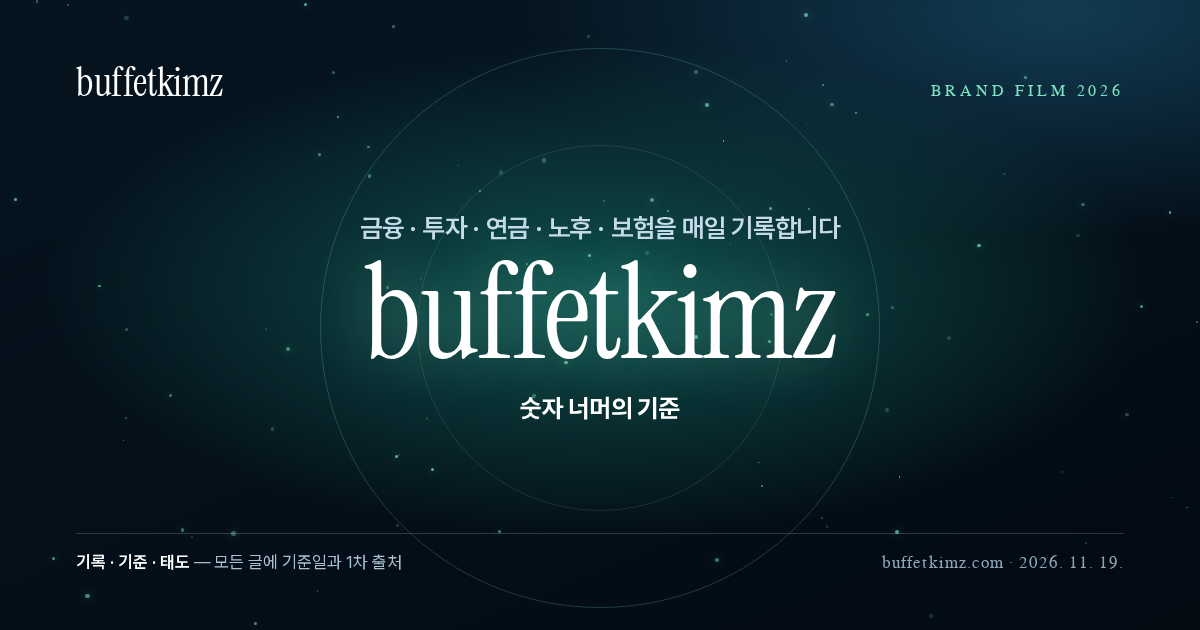
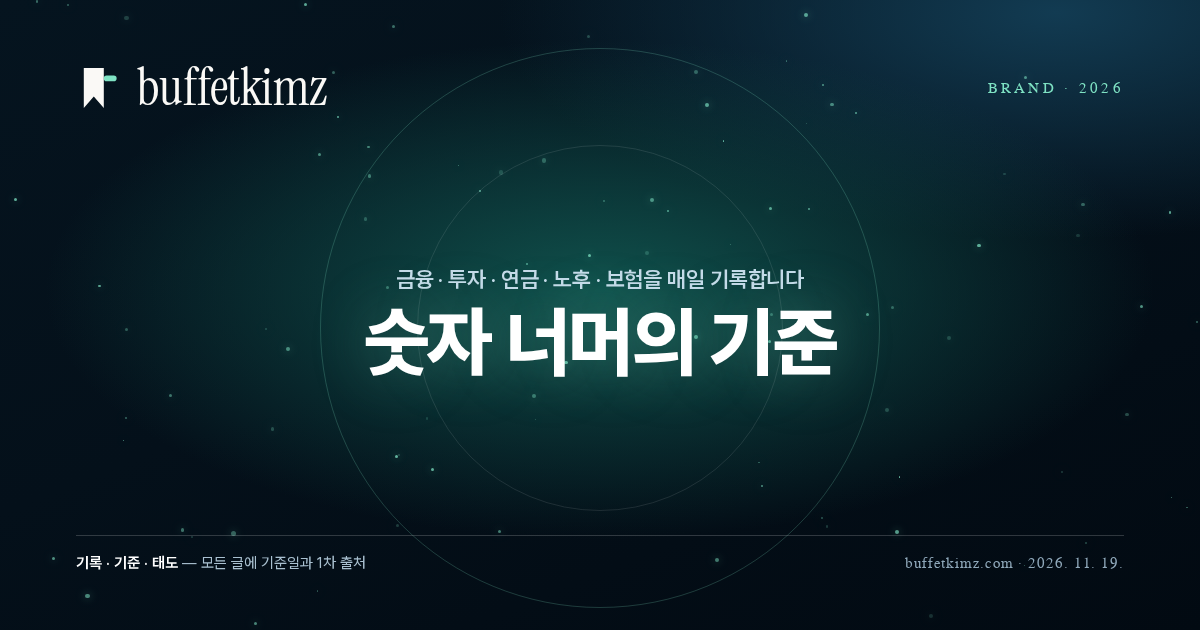
v5.5 대표 로고 시안 A(서표·인덱스 탭) 정식 반영 — 헤더·푸터 락업, 파비콘 16/32/180, 다크 민트 컷, OG 카드
- 헤더: 심볼 28px + 워드마크 30.8px(1:0.55) 인라인 SVG 락업, 모바일 22/24.2px, aria-label·focus-visible 링
- 푸터: 같은 락업 22px로 통일
- 1P 필름: 씬5·정적 록업·HUD에 다크 컷(#faf9f6 + 민트 #7fe3c4), 44~104px로 줄여 제목과 균형
- 파비콘: favicon.svg(32 컷, prefers-color-scheme 대응)·favicon-16.svg(16px 힌팅 컷)·크림 불투명 16/32 PNG·apple-touch-icon 180
- OG: 시안 A 락업의 아카이브형 카드로 재생성(1200×630)
- 검증: 1280/1200/390 렌더 캡처, 콘솔 오류 0·4xx 0, 넘침 0

diff --git a/src/styles/global.css b/src/styles/global.css
@@ -160,6 +160,84 @@
     }
   }
 
+  /* ==================================================================
+     v5.5 브랜드 록업 — 시안 A '서표 · 인덱스 탭' (2026-11-21 확정)
+     워드마크 글자 크기를 --lockup-size로 받고 심볼·간격이 거기에 비례한다.
+     심볼 = 0.909 × 글자 크기 → 헤더 28px : 30.8px (시안 A 1:0.55 균형 비율).
+     ================================================================== */
+  .brand-lockup {
+    --lockup-size: 1em;
+    display: inline-flex;
+    align-items: center;
+    gap: calc(var(--lockup-size) * 0.26);
+    color: var(--color-ink);
+    text-decoration: none;
+  }
+
+  .brand-lockup__symbol {
+    flex: none;
+    display: block;
+    width: calc(var(--lockup-size) * 0.909);
+    height: calc(var(--lockup-size) * 0.909);
+  }
+
+  /* 먹 = 잉크 네이비(currentColor) · 포인트 1색 = 딥그린 */
+  .brand-lockup__ink {
+    fill: currentColor;
+  }
+
+  .brand-lockup__tab {
+    fill: var(--color-brand);
+  }
+
+  .brand-lockup__word {
+    font-size: var(--lockup-size);
+    line-height: 1;
+    letter-spacing: -0.01em;
+    color: currentColor;
+  }
+
+  /* 다크 바탕 — 종이색 심볼 + 민트 탭(명도 보정 짝, 동일 녹색 계열) */
+  .brand-lockup.is-dark {
+    color: #faf9f6;
+  }
+
+  .brand-lockup.is-dark .brand-lockup__tab {
+    fill: #7fe3c4;
+  }
+
+  /* 로고 링크 — 키보드 포커스에만 링을 두고, 다크에서는 민트로 바꾼다 */
+  .brand-lockup-link:focus-visible {
+    outline: 2px solid var(--color-brand);
+    outline-offset: 3px;
+    border-radius: 10px;
+  }
+
+  .brand-lockup-link:focus:not(:focus-visible) {
+    outline: none;
+  }
+
+  .brand-lockup-link.is-dark:focus-visible,
+  .is-dark .brand-lockup-link:focus-visible {
+    outline-color: #7fe3c4;
+  }
+
+  /* 헤더 — 데스크톱 30.8px · 모바일 24.2px (적용 가이드: 심볼 28px / 22px) */
+  .brand-lockup--header {
+    --lockup-size: 30.8px;
+  }
+
+  @media (max-width: 767px) {
+    .brand-lockup--header {
+      --lockup-size: 24.2px;
+    }
+  }
+
+  /* 푸터 — 22px(심볼 20px) */
+  .brand-lockup--footer {
+    --lockup-size: 22px;
+  }
+
   .site-quick {
     border-top: 1px solid var(--color-line-soft);
   }
@@ -2195,9 +2273,11 @@
   }
 
   .fs5-mark {
-    margin-top: 4px;
+    margin-top: 12px;
     font-family: var(--font-serif);
-    font-size: clamp(58px, 10.4vw, 142px);
+    /* 시안 A 심볼이 함께 서므로 워드마크만 있던 때(최대 142px)보다 한 단계 줄여
+       제목을 누르지 않고 한 덩어리로 읽히게 한다(심볼은 0.909배로 따라온다). */
+    font-size: clamp(44px, 7.6vw, 104px);
     line-height: 1;
     letter-spacing: -0.02em;
     color: #ffffff;
@@ -2965,5 +3045,33 @@
     opacity: 1;
     transform: none;
     clip-path: none;
+  }
+}
+
+/* ==================================================================
+   v2 발행 파이프라인 — 390px 본문 규격 (부이 대리 기준)
+   본문 16~17px · line-height 1.7 내외 · 표는 좌우로 밀려 넘치지 않고 표 안에서 스크롤
+   ================================================================== */
+@media (max-width: 767px) {
+  .prose-article {
+    font-size: 16.5px;
+    line-height: 1.72;
+  }
+
+  .prose-article table {
+    max-width: 100%;
+    font-size: 13.5px;
+    line-height: 1.6;
+    -webkit-overflow-scrolling: touch;
+    overscroll-behavior-x: contain;
+  }
+
+  .prose-article th,
+  .prose-article td {
+    padding: 8px 10px;
+  }
+
+  .prose-article blockquote {
+    font-size: 15.5px;
   }
 }

diff --git a/scripts/og.html b/scripts/og.html
@@ -29,7 +29,7 @@
         justify-content: space-between;
         word-break: keep-all;
       }
-      /* 빛 입자 — 다만 장식. 텍스트 워드마크만 쓴다(붓글씨 로고 없음) */
+      /* 빛 입자 — 장식. 로고는 시안 A(서표·인덱스 탭) 락업만 쓴다 */
       .dust { position: absolute; inset: 0; pointer-events: none; }
       .dust i {
         position: absolute;
@@ -57,42 +57,38 @@
         border-radius: 999px;
         border: 1px solid rgba(255, 255, 255, 0.1);
       }
-      .top { display: flex; align-items: baseline; justify-content: space-between; position: relative; }
+      .top { display: flex; align-items: center; justify-content: space-between; position: relative; }
+      /* 브랜드 록업 — 심볼 = 워드마크의 0.909배(28 : 30.8 비율 유지) */
+      .lockup { display: inline-flex; align-items: center; gap: 13px; color: #faf9f6; }
+      .lockup svg { width: 48px; height: 48px; display: block; }
       .wordmark {
         font-family: "Instrument Serif", Georgia, serif;
-        font-size: 40px;
+        font-size: 52px;
         line-height: 1;
         letter-spacing: -0.01em;
-        color: #ffffff;
+        color: #faf9f6;
       }
       .kicker {
         font-family: ui-monospace, "SF Mono", Menlo, monospace;
-        font-size: 16px;
-        letter-spacing: 0.24em;
+        font-size: 15px;
+        letter-spacing: 0.22em;
         color: #7fe3c4;
       }
       .mid { position: relative; text-align: center; }
       .line1 {
-        font-size: 26px;
+        font-size: 22px;
         font-weight: 600;
-        letter-spacing: -0.01em;
+        letter-spacing: -0.005em;
         color: #c6dbe9;
       }
-      .mark {
-        margin-top: 6px;
-        font-family: "Instrument Serif", Georgia, serif;
-        font-size: 132px;
-        line-height: 0.98;
-        letter-spacing: -0.02em;
-        color: #ffffff;
-        text-shadow: 0 0 60px rgba(127, 227, 196, 0.45);
-      }
       .thesis {
-        margin-top: 14px;
-        font-size: 25px;
-        font-weight: 700;
-        letter-spacing: -0.03em;
+        margin-top: 10px;
+        font-size: 76px;
+        font-weight: 800;
+        line-height: 1.06;
+        letter-spacing: -0.035em;
         color: #ffffff;
+        text-shadow: 0 0 60px rgba(127, 227, 196, 0.35);
       }
       .bottom {
         position: relative;
@@ -101,7 +97,7 @@
         align-items: center;
         border-top: 1px solid rgba(255, 255, 255, 0.18);
         padding-top: 18px;
-        font-size: 17px;
+        font-size: 15px;
         color: #a9c0d0;
       }
       .bottom .mono {
@@ -117,13 +113,18 @@
     <div class="rings"></div>
 
     <div class="top">
-      <span class="wordmark">buffetkimz</span>
-      <span class="kicker">BRAND FILM 2026</span>
+      <span class="lockup">
+        <svg viewBox="0 0 24 24" aria-hidden="true">
+          <path d="M3.9 2H13.9V22L8.9 16.2 3.9 22Z" fill="#faf9f6" />
+          <rect x="13.9" y="5.8" width="6.4" height="2.8" rx="1.4" fill="#7fe3c4" />
+        </svg>
+        <span class="wordmark">buffetkimz</span>
+      </span>
+      <span class="kicker">BRAND · 2026</span>
     </div>
 
     <div class="mid">
       <p class="line1">금융 · 투자 · 연금 · 노후 · 보험을 매일 기록합니다</p>
-      <p class="mark">buffetkimz</p>
       <p class="thesis">숫자 너머의 기준</p>
     </div>
 

diff --git a/src/components/home/BrandFilm.tsx b/src/components/home/BrandFilm.tsx
@@ -13,6 +13,7 @@
  * 필름 구역에는 요약 설명을 붙이고 H1은 정적 록업이 갖는다(자바스크립트 없이도 읽힌다).
  */
 import { useEffect, useRef, useState } from "react";
+import BrandMark from "@/components/BrandMark.tsx";
 
 const TOTAL = 12;
 const SCENES = [
@@ -443,7 +444,7 @@ export default function BrandFilm({ appsHref = "/apps" }: { appsHref?: string })
                 숫자 너머의 기준
               </p>
               <p className="fs5-mark" data-fs5-mark>
-                buffetkimz
+                <BrandMark tone="dark" />
               </p>
               <p className="fs5-sub" data-fs5-sub>
                 금융 · 투자 · 연금 · 노후 · 보험을 매일 기록합니다
@@ -489,7 +490,9 @@ export default function BrandFilm({ appsHref = "/apps" }: { appsHref?: string })
           <p className="film-static-title">
             숫자 너머의 기준,
             <br />
-            <span className="film-static-mark">buffetkimz</span>
+            <span className="film-static-mark">
+              <BrandMark tone="dark" />
+            </span>
           </p>
           <p className="film-static-sub">숫자를 확인하고, 기록으로 남깁니다</p>
           <p className="film-mono film-static-fields">금융 · 투자 · 연금 · 노후 · 보험</p>
@@ -507,7 +510,7 @@ export default function BrandFilm({ appsHref = "/apps" }: { appsHref?: string })
         <div className="film-hud">
           <div className="film-hud-left">
             <p className="film-hud-brand">
-              <span className="serif">buffetkimz</span>
+              <BrandMark tone="dark" size="21px" />
               <span className="film-mono">BRAND FILM</span>
             </p>
             <p className="film-hud-line">숫자를 확인하고, 기록으로 남깁니다</p>

diff --git a/src/components/BrandMark.tsx b/src/components/BrandMark.tsx
@@ -1,0 +1,24 @@
+/**
+ * 브랜드 록업(React) — 1P 브랜드 필름처럼 React 컴포넌트 안에서 쓰는 자리용.
+ * 도형·비율·색은 src/components/BrandLockup.astro와 같다(시안 A · 서표/인덱스 탭).
+ */
+type Props = {
+  tone?: "light" | "dark";
+  className?: string;
+  /** 워드마크 글자 크기. 생략하면 부모 font-size(1em)를 따른다 */
+  size?: string;
+  wordmark?: boolean;
+};
+
+export default function BrandMark({ tone = "dark", className = "", size, wordmark = true }: Props) {
+  const style = size ? ({ "--lockup-size": size } as React.CSSProperties) : undefined;
+  return (
+    <span className={`brand-lockup${tone === "dark" ? " is-dark" : ""}${className ? ` ${className}` : ""}`} style={style}>
+      <svg className="brand-lockup__symbol" viewBox="0 0 24 24" aria-hidden="true" focusable="false">
+        <path className="brand-lockup__ink" d="M3.9 2H13.9V22L8.9 16.2 3.9 22Z" />
+        <rect className="brand-lockup__tab" x="13.9" y="5.8" width="6.4" height="2.8" rx="1.4" />
+      </svg>
+      {wordmark && <span className="brand-lockup__word serif">buffetkimz</span>}
+    </span>
+  );
+}
